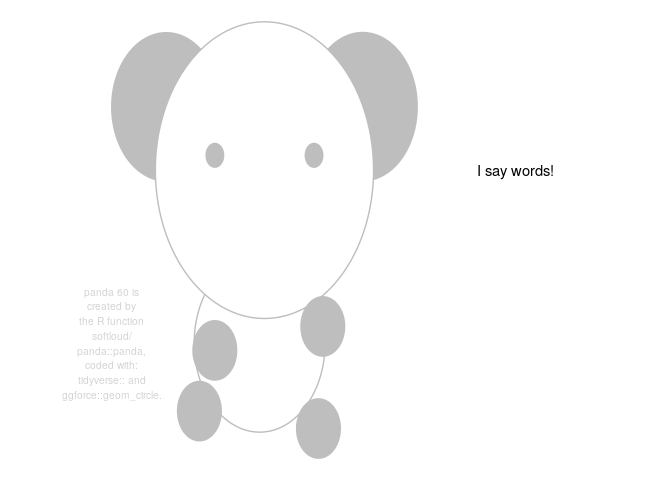
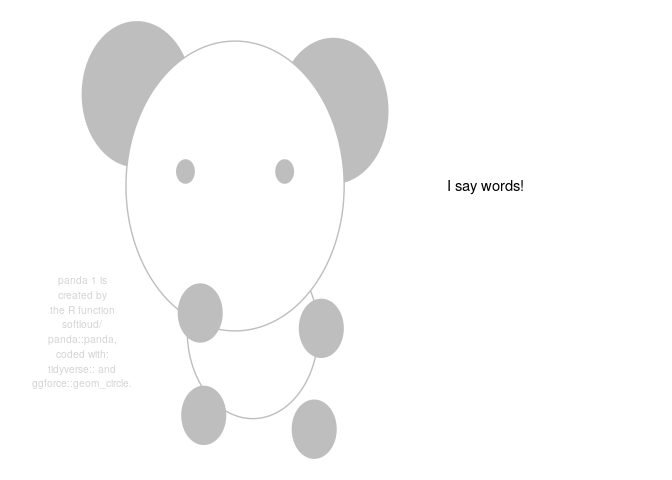
gallery added

diff --git a/README.md b/README.md
@@ -13,7 +13,7 @@ The goal of panda is to make panda pictures that say my words.
 library(panda)
 
 panda("I say words!")
-#> Set panda = 60 to reproduce this panda.
+#> Set panda = 1 to reproduce this panda.
 ```
 
 <img src="man/figures/README-unnamed-chunk-2-1.png" width="100%" />
@@ -109,3 +109,51 @@ panda(descriptor = "Mittens",
 ```
 
 <img src="man/figures/README-unnamed-chunk-9-2.png" width="100%" />
+
+## gallery
+
+``` r
+# moods
+pandas %>% 
+  dplyr::filter(type == "mood") %>% 
+  purrr::pluck('descriptor') %>% 
+  purrr::map(.f = function(x) {
+    panda(msg = x, descriptor = x)
+  })
+#> Set panda = 73 to reproduce this panda.
+#> Set panda = 26 to reproduce this panda.
+#> [[1]]
+```
+
+<img src="man/figures/README-unnamed-chunk-10-1.png" width="100%" />
+
+    #> 
+    #> [[2]]
+
+<img src="man/figures/README-unnamed-chunk-10-2.png" width="100%" />
+
+``` r
+# pandas by name
+pandas %>% 
+  dplyr::filter(type == "name") %>% 
+  purrr::pluck('descriptor') %>% 
+  purrr::map(.f = function(x) {
+    panda(msg = x, descriptor = x)
+  })
+#> Set panda = 52 to reproduce this panda.
+#> Set panda = 26 to reproduce this panda.
+#> Set panda = 26 to reproduce this panda.
+#> [[1]]
+```
+
+<img src="man/figures/README-unnamed-chunk-11-1.png" width="100%" />
+
+    #> 
+    #> [[2]]
+
+<img src="man/figures/README-unnamed-chunk-11-2.png" width="100%" />
+
+    #> 
+    #> [[3]]
+
+<img src="man/figures/README-unnamed-chunk-11-3.png" width="100%" />
